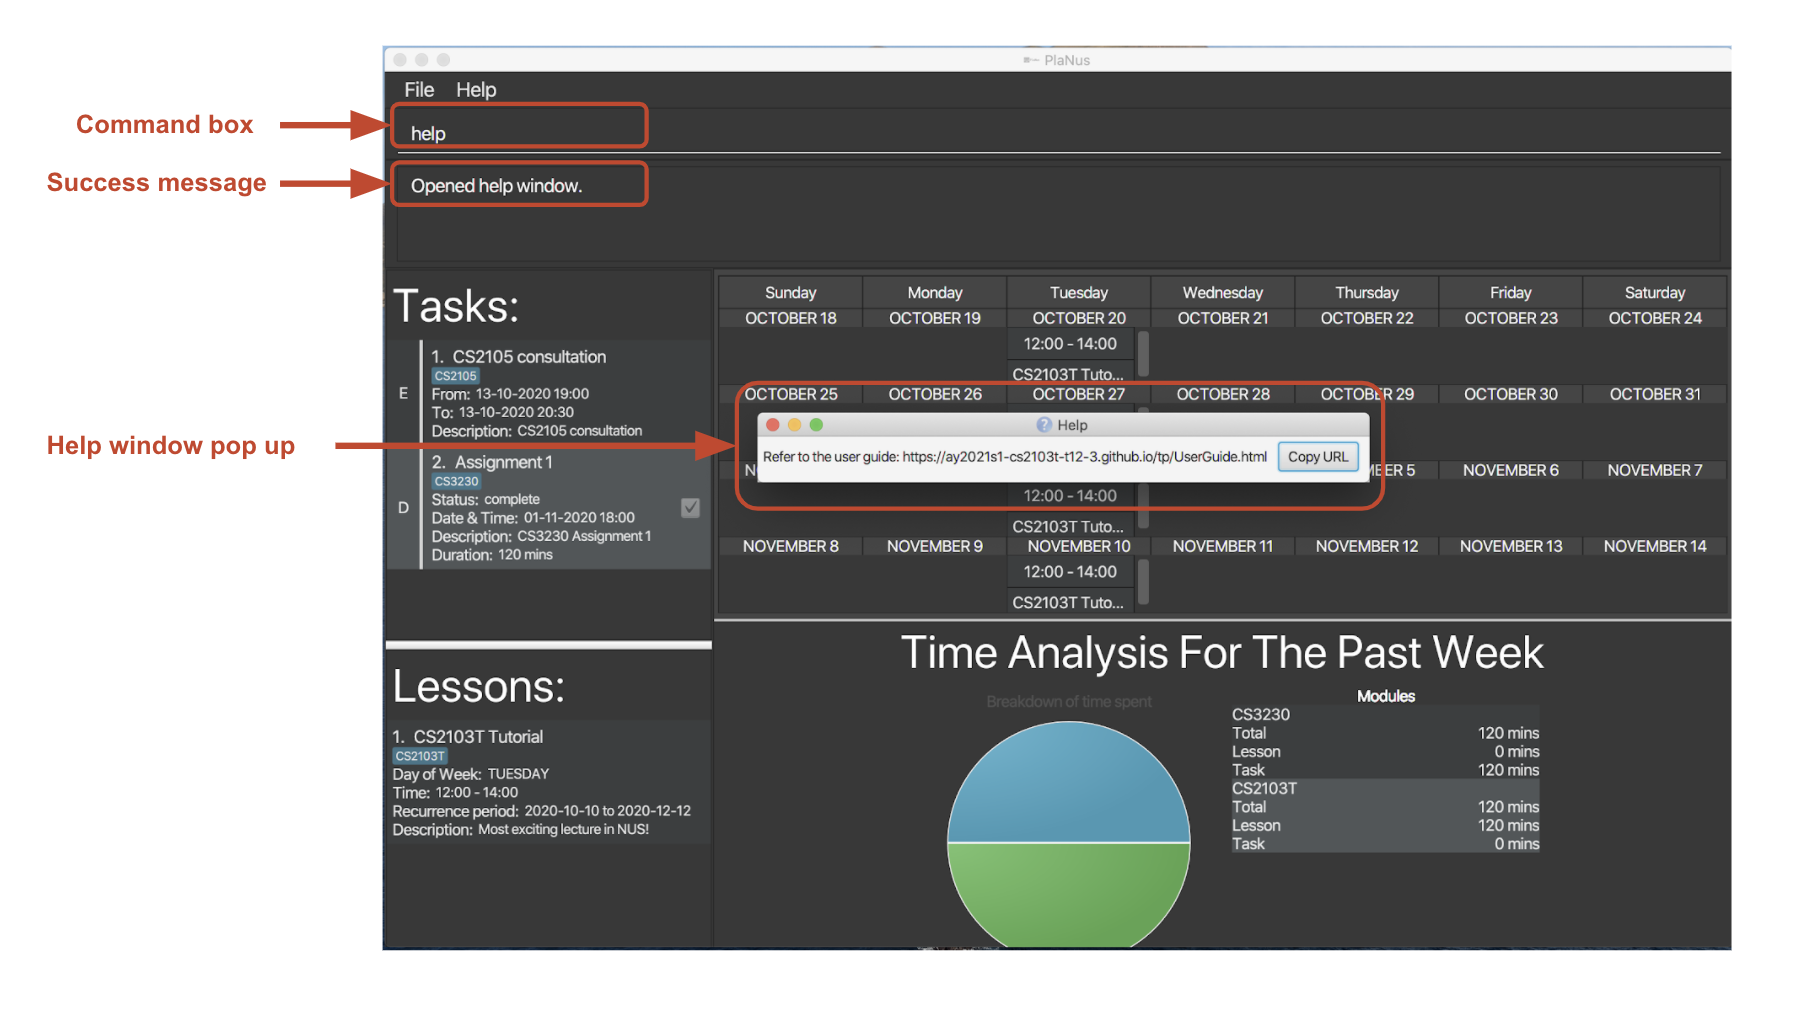
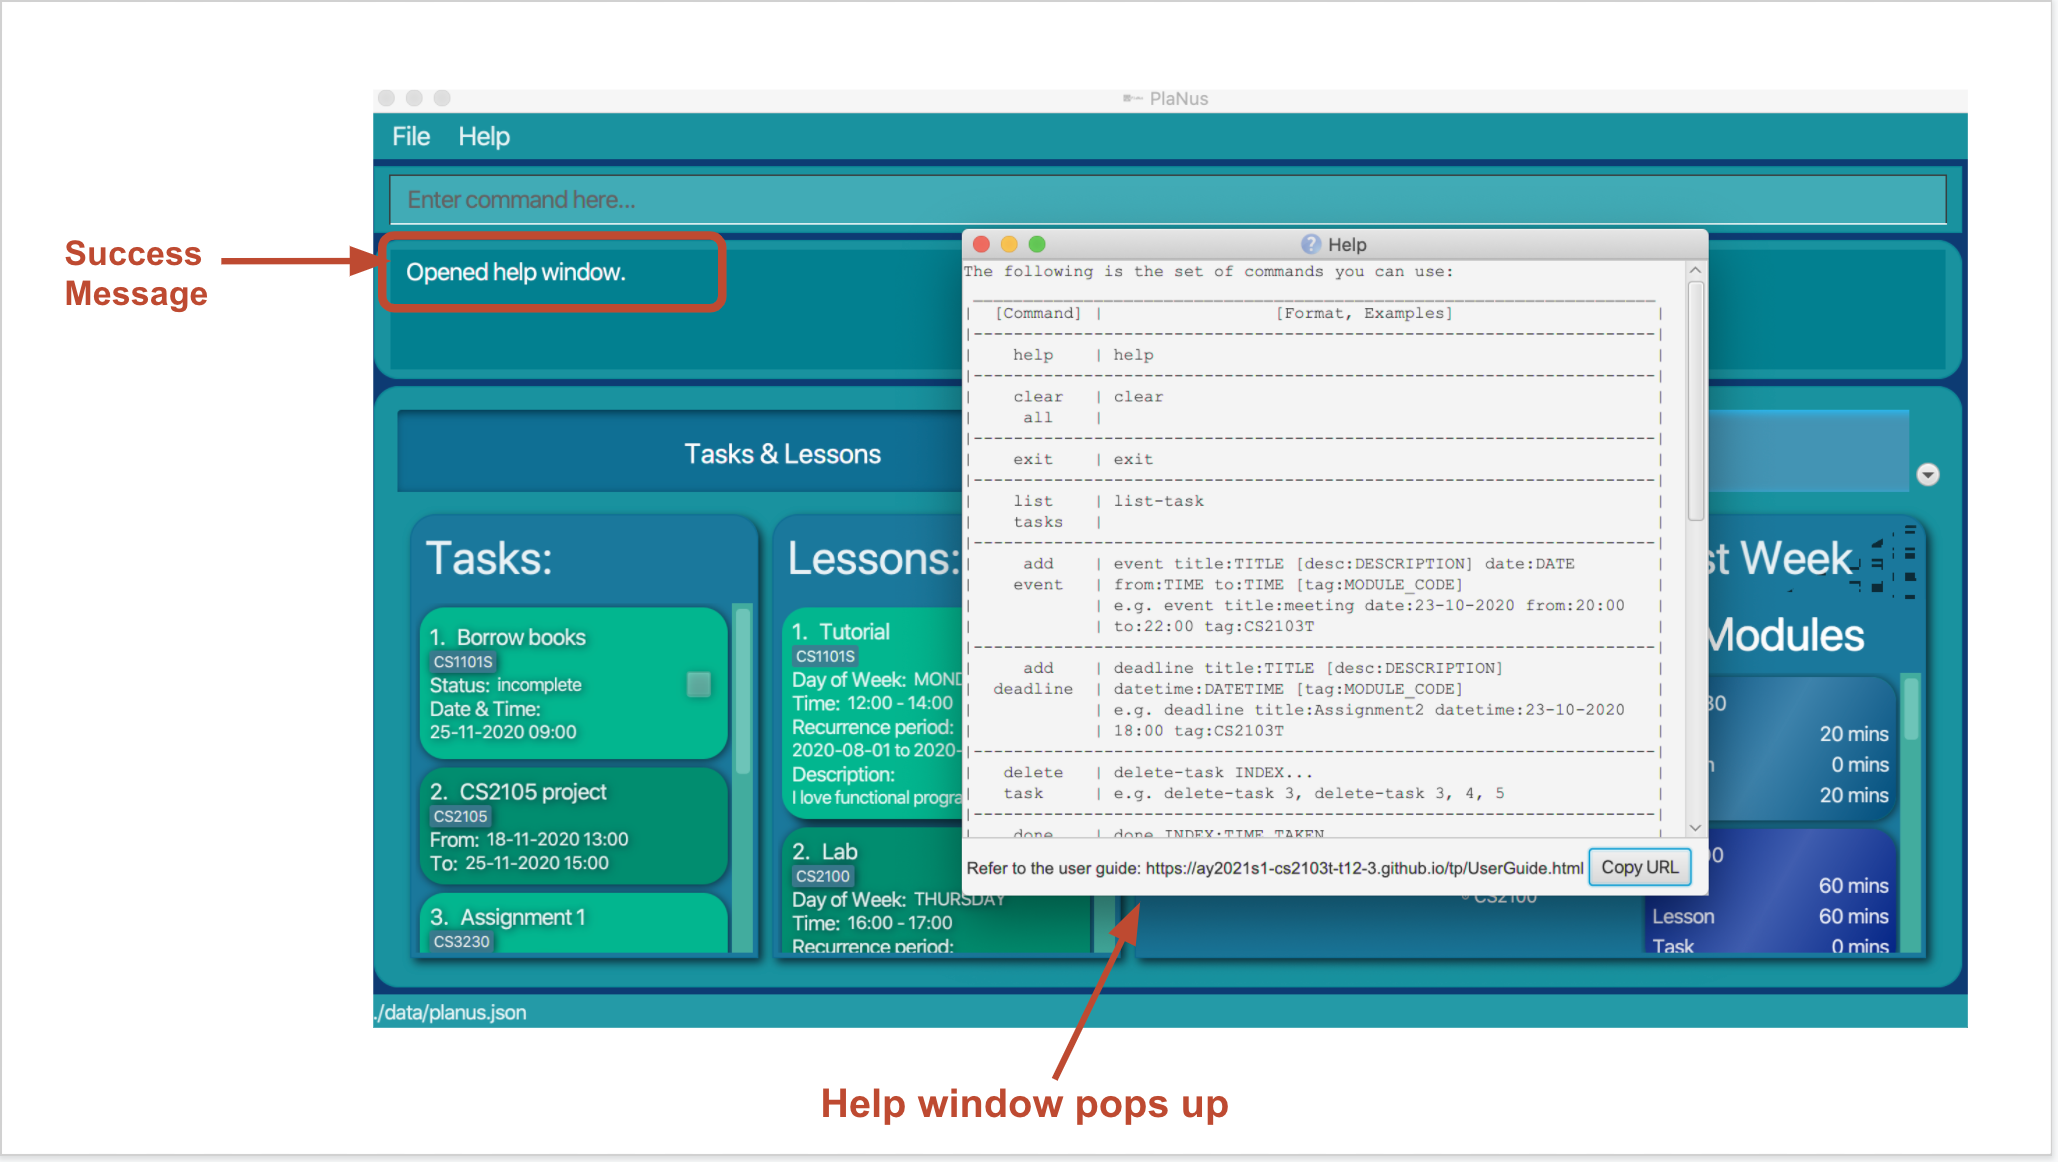
update gabriella's portion

diff --git a/docs/UserGuide.md b/docs/UserGuide.md
@@ -101,7 +101,7 @@ Shows the user a link to the user guide.
 Format: `help`
 
 1. Type in `help` into the command box.
-2. A success message and a pop-up window with a link to the user guide will appear.
+2. A success message will appear in the message box. A pop-up window with some sample commands and  a link to the user guide will appear.
 
 ![help message](images/HelpMessage.png)
 
@@ -115,10 +115,8 @@ Users can clear all the tasks in the PlaNus.
 Format: `clear`
 
 1. Type in `clear` into the command box.
-
-![clear message](images/ClearMessage.png)
-
 <br>
+
 2. All the tasks and lessons in PlaNus will be cleared.
 <br>
 
@@ -133,8 +131,6 @@ Users can exit PlaNus.
 Format: `exit`
 
 1. Type `exit` into the command box.
-
-    ![exit message](images/ExitMessage.png)
 
 2. The application window will automatically close.
 
